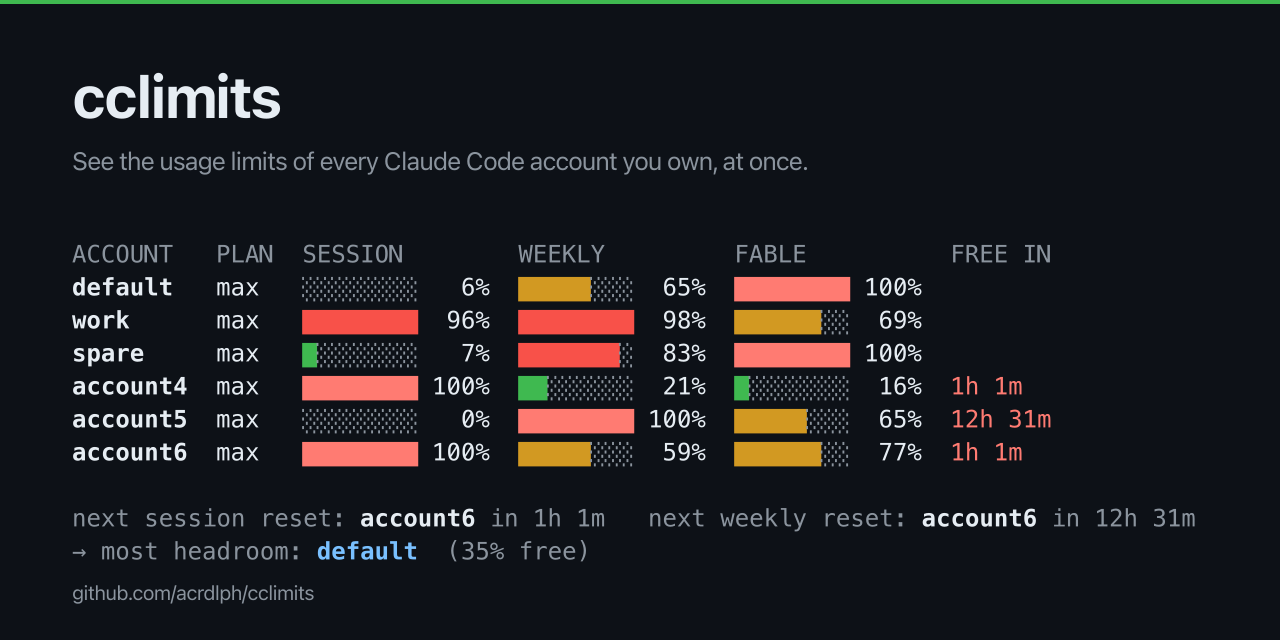
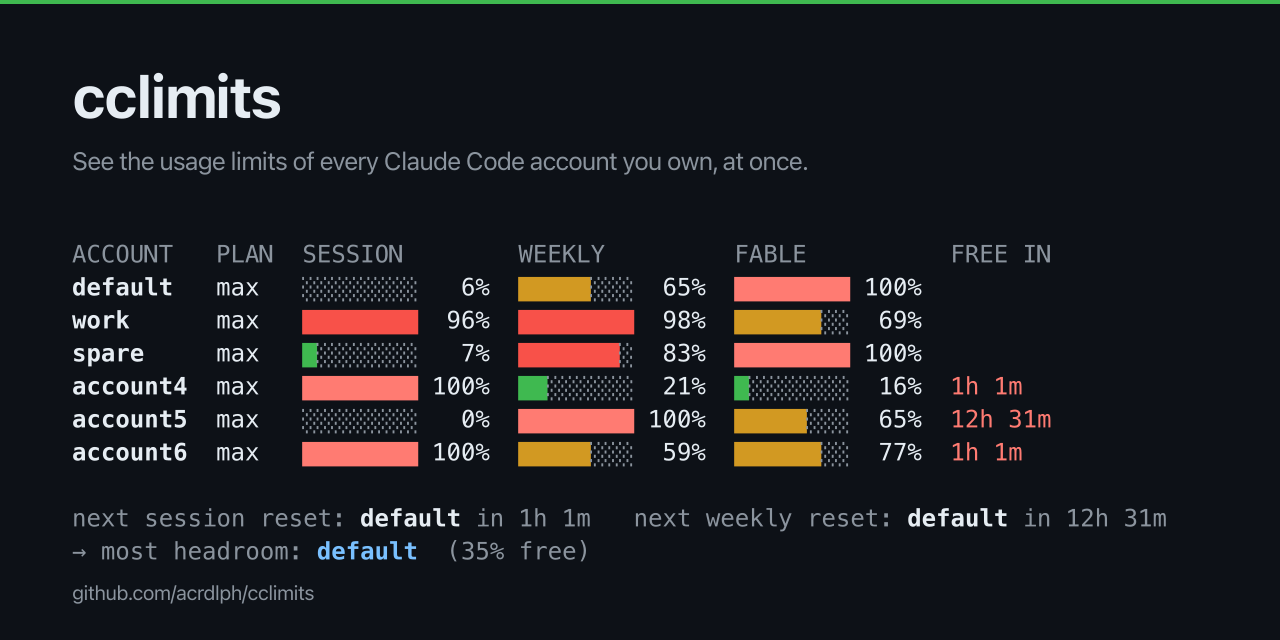
fix: one clock sample per render, so the footer tiebreak cannot flap
Every countdown took its own datetime.now(), so durations equal in fact
compared unequal by the microseconds between calls — the "next reset"
footer named an arbitrary account among ties, and regenerating the README
images churned on every run. Each render now measures all countdowns
against a single instant; an exact tie goes to the first-listed account,
the same order the table shows.

The docs images are regenerated and are now byte-stable across runs.

Changed region(s): [[0.5, 0.7812, 0.9375, 0.8438], [0.2812, 0.7812, 0.4688, 0.8438]]

diff --git a/src/cclimits/render.py b/src/cclimits/render.py
@@ -86,9 +86,9 @@ def _cell(limit: Optional[Limit], paint: Painter) -> str:
     return text
 
 
-def _free_cell(account: AccountUsage, paint: Painter) -> str:
+def _free_cell(account: AccountUsage, paint: Painter, now: datetime) -> str:
     """How long until a blocked account is usable again; blank if it is usable now."""
-    seconds = account.blocked_for_seconds()
+    seconds = account.blocked_for_seconds(now)
     if seconds is None:
         return ""
     return paint(humanize(seconds), BRIGHT_RED)
@@ -116,6 +116,11 @@ def render_table(accounts: List[AccountUsage], color: bool = True) -> str:
     paint = Painter(color)
     if not accounts:
         return "No Claude Code accounts found. See `cclimits --help`."
+
+    # One clock sample per render. Every countdown is measured against the same
+    # instant, or durations that are equal in fact compare unequal by the
+    # microseconds between two now() calls — and ties break arbitrarily.
+    now = datetime.now(timezone.utc)
 
     # Model columns are the union across accounts, so a limit that only exists
     # on some plans (a promo model, say) still gets its own column.
@@ -146,7 +151,7 @@ def render_table(accounts: List[AccountUsage], color: bool = True) -> str:
             _cell(account.session, paint),
             _cell(account.weekly, paint),
             *(_cell(account.find(name), paint) for name in model_names),
-            _free_cell(account, paint),
+            _free_cell(account, paint, now),
         ]
         for account in healthy
     }
@@ -172,15 +177,19 @@ def render_table(accounts: List[AccountUsage], color: bool = True) -> str:
             lines.append(f"{name}  {paint(account.error or 'error', RED)}")
 
     lines.append("")
-    lines.append(_reset_footer(accounts, paint))
+    lines.append(_reset_footer(accounts, paint, now))
     advice = recommend(accounts, paint)
     if advice:
         lines.append(advice)
     return "\n".join(lines)
 
 
-def _soonest_reset(accounts: List[AccountUsage], group: str):
-    """The (account, seconds) pair whose limit in this group resets first."""
+def _soonest_reset(accounts: List[AccountUsage], group: str, now: datetime):
+    """The (account, seconds) pair whose limit in this group resets first.
+
+    Exact ties go to the account listed first — discovery order, the same
+    order the table shows.
+    """
     candidates = []
     for account in accounts:
         if not account.ok:
@@ -188,17 +197,17 @@ def _soonest_reset(accounts: List[AccountUsage], group: str):
         limit = account.session if group == SESSION else account.weekly
         if limit is None:
             continue
-        seconds = limit.resets_in_seconds()
+        seconds = limit.resets_in_seconds(now)
         if seconds is not None:
             candidates.append((account, seconds))
     return min(candidates, key=lambda pair: pair[1]) if candidates else None
 
 
-def _reset_footer(accounts: List[AccountUsage], paint: Painter) -> str:
+def _reset_footer(accounts: List[AccountUsage], paint: Painter, now: datetime) -> str:
     """Which account frees up next, and when."""
     parts = []
     for name, group in (("session", SESSION), ("weekly", WEEKLY)):
-        soonest = _soonest_reset(accounts, group)
+        soonest = _soonest_reset(accounts, group, now)
         if soonest is None:
             continue
         account, seconds = soonest
@@ -231,6 +240,7 @@ def best_account(accounts: List[AccountUsage]) -> Optional[AccountUsage]:
 
 def render_detail(accounts: List[AccountUsage], color: bool = True) -> str:
     paint = Painter(color)
+    now = datetime.now(timezone.utc)
     blocks: List[str] = []
     for account in accounts:
         title = paint(account.label, BOLD)
@@ -243,7 +253,7 @@ def render_detail(accounts: List[AccountUsage], color: bool = True) -> str:
             flag = paint("  ← blocking you now", BRIGHT_RED) if limit.exhausted_now else ""
             lines.append(
                 f"  {_pad(limit.label, 10)} {bar(limit.percent, paint)} "
-                f"{limit.percent:3.0f}%  {paint('resets in ' + humanize(limit.resets_in_seconds()), DIM)}{flag}"
+                f"{limit.percent:3.0f}%  {paint('resets in ' + humanize(limit.resets_in_seconds(now)), DIM)}{flag}"
             )
         blocks.append("\n".join(lines))
     return "\n\n".join(blocks)
@@ -251,8 +261,9 @@ def render_detail(accounts: List[AccountUsage], color: bool = True) -> str:
 
 def to_dict(accounts: List[AccountUsage]) -> dict:
     """The --json shape. Stable; script against this rather than the table."""
+    now = datetime.now(timezone.utc)
     return {
-        "generated_at": datetime.now(timezone.utc).isoformat(),
+        "generated_at": now.isoformat(),
         "accounts": [
             {
                 "slug": account.slug,
@@ -271,7 +282,7 @@ def to_dict(accounts: List[AccountUsage]) -> dict:
                         "model_scoped": limit.is_model_scoped,
                         "exhausted_now": limit.exhausted_now,
                         "resets_at": limit.resets_at.isoformat() if limit.resets_at else None,
-                        "resets_in_seconds": limit.resets_in_seconds(),
+                        "resets_in_seconds": limit.resets_in_seconds(now),
                     }
                     for limit in account.limits
                 ],
@@ -284,6 +295,7 @@ def to_dict(accounts: List[AccountUsage]) -> dict:
 def render_html(accounts: List[AccountUsage]) -> str:
     """A self-contained dashboard file. No network, no fonts, no scripts."""
     esc = html_escape.escape
+    now = datetime.now(timezone.utc)
 
     def card(account: AccountUsage) -> str:
         name = esc(account.label)
@@ -297,7 +309,7 @@ def render_html(accounts: List[AccountUsage]) -> str:
             f'<span class="track"><span class="fill t{_tier(limit.percent)}"'
             f' style="width:{min(100, limit.percent):.0f}%"></span></span>'
             f'<span class="pct">{limit.percent:.0f}%</span>'
-            f'<span class="rst">{esc(humanize(limit.resets_in_seconds()))}</span></div>'
+            f'<span class="rst">{esc(humanize(limit.resets_in_seconds(now)))}</span></div>'
             for limit in account.limits
         )
         plan = esc(account.plan or "")

diff --git a/tests/test_cclimits.py b/tests/test_cclimits.py
@@ -244,6 +244,31 @@ def test_footer_names_the_account_that_frees_up_first():
     assert "next weekly reset: later in" in out
 
 
+def test_footer_tiebreak_is_deterministic():
+    """Two accounts whose limits reset at the same instant must not swap places
+    in the footer between runs. Each render measures every countdown against a
+    single clock sample, so an exact tie stays a tie and goes to the account
+    listed first — not to whichever account's now() happened to be called last."""
+    reset = datetime.now(timezone.utc) + timedelta(hours=2)
+
+    def account(slug):
+        return model.AccountUsage(
+            slug=slug,
+            config_dir=Path("/tmp") / slug,
+            limits=[
+                model.Limit("Session", model.SESSION, 50, reset),
+                model.Limit("Weekly", model.WEEKLY, 50, reset),
+            ],
+        )
+
+    accounts = [account("first"), account("second")]
+    names = {
+        re.search(r"next session reset: (\w+)", render.render_table(accounts, color=False))[1]
+        for _ in range(20)
+    }
+    assert names == {"first"}
+
+
 def test_footer_ignores_broken_accounts():
     broken = model.AccountUsage(slug="broken", config_dir=Path("/tmp/b"), error="expired")
     good = _account_with_resets("good", 50, session_in=30, weekly_in=60)